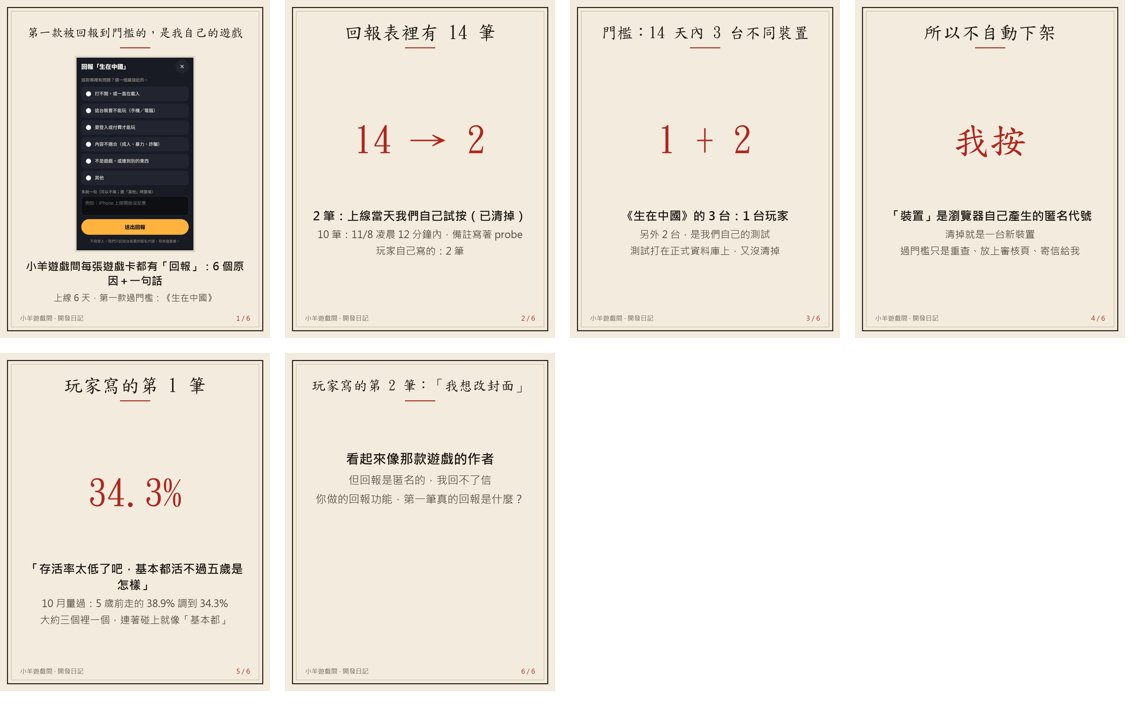
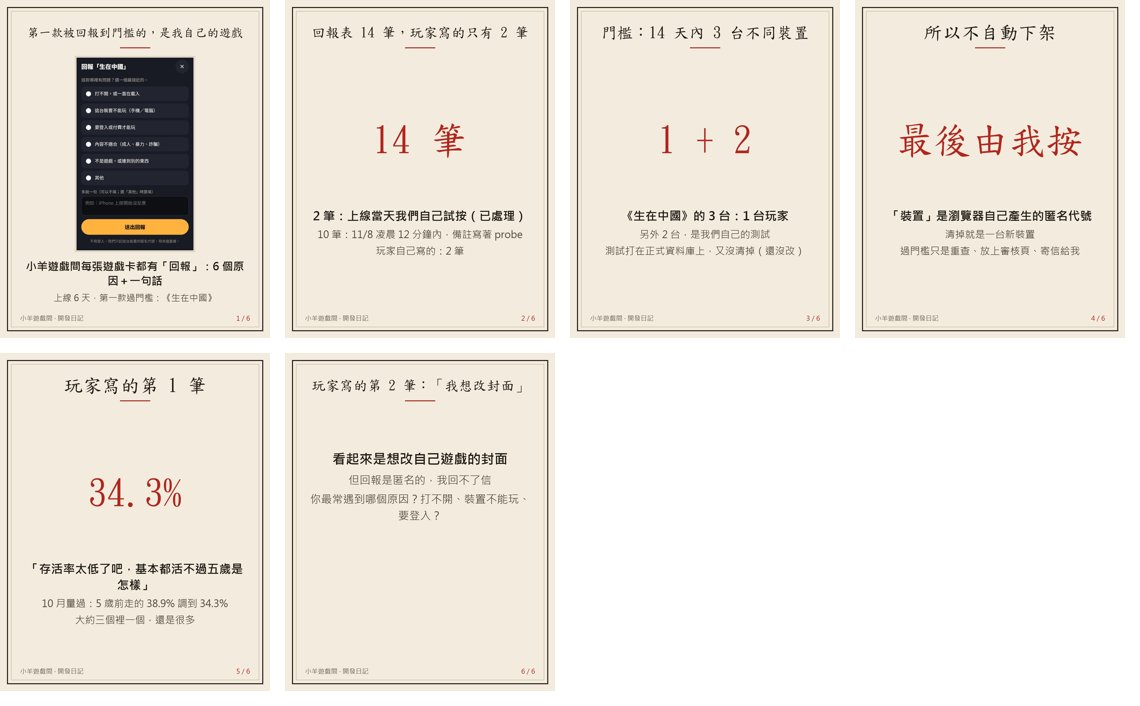
vault backup: 2026-11-08 05:40:37

diff --git a/Projects/auto promotion/posts/56.md b/Projects/auto promotion/posts/56.md
@@ -3,41 +3,41 @@ id: 56
 type: devnote
 game: hub
 topic: "小羊遊戲間：回報按鈕（D61，11/2 上線）6 天——回報表 14 筆：2 筆上線當天 orchestrator 試按（已清）、10 筆 11/8 台灣 00:22–00:34 測試探針（備註 probe，含一筆 <img onerror> 擋 HTML 測試）、玩家寫的 2 筆；門檻 14 天 3 台不同裝置，第一款過門檻的是生在中國：1 台玩家＋2 台探針（測試打正式 D1 沒清）；裝置是瀏覽器匿名代號、清掉就是新裝置 → 不自動下架、owner 按；玩家 1「存活率太低了吧 基本都活不過五歲」← #7 的 38.9%→34.3%；玩家 2 台灣三寶駕駛模擬器「我想改封面」像作者、匿名回不了；同期 364 個匿名裝置、374 次開玩"
-status: 草稿
+status: 待發
 created: 2026-11-08 21:30
-score:
+score: 8.1
 ---
 # 第一款被回報到門檻的遊戲，是我自己的
 
 ## Threads
 ### 1
-回報按鈕上線 6 天，
-第一款被回報到門檻的遊戲，是我自己做的《生在中國》。
+第一款被回報到門檻的遊戲，
+是我自己做的《生在中國》。（回報按鈕上線 6 天）
 
-我第一個反應是：糟了，壞了嗎？
-然後我去看了那 3 台裝置是誰。（開發日記）
+所以我去看了那 3 台裝置是誰。（開發日記）
 ![[56/01.jpg]]
 ### 2
 先說這個按鈕。
 
-小羊遊戲間收了一千多款網頁小遊戲，有些會掛掉、要登入、或手機不能玩。
+小羊遊戲間收了 1,513 款網頁小遊戲，有些會掛掉、要登入、或手機不能玩。
 11/2 我跟 AI 團隊說：我想做一個回報系統，每個遊戲頁 like、share 之外再多一個 report，收集多了可以下架或讓它少出現。
 
 做出來是：6 個原因選一個，可以多說一句，不用登入。
 不存 IP，只記一個匿名的裝置代號。
 同一台、同一款，24 小時只算一次。
 ### 3
-規則是：14 天內，有 3 台不同裝置回報同一款，
-排程就重查那款、放上審核頁、寄信給我。
+規則是：14 天內有 3 台不同裝置回報同一款，
+每天的排程會重查那款、放上審核頁，提醒我去看。
 
 不自動下架。
 因為「裝置」只是瀏覽器自己產生的代號，
 清掉瀏覽器資料，就是一台新裝置。
 最後按「下架／少出現／沒問題」的，是我。
+![[56/04.jpg]]
 ### 4
 6 天，回報表裡有 14 筆。
 
-・2 筆：上線當天我們自己試按，當場清掉
+・2 筆：上線當天我們自己試按，當場標成已處理
 ・10 筆：11/8 凌晨 12 分鐘內打進來，備註寫著 probe，還有一筆在備註裡塞 HTML，測會不會被擋
 ・玩家自己寫的：2 筆
 
@@ -50,67 +50,78 @@ score:
 測試打在正式資料庫上，又沒清掉。
 門檻是我定的，湊滿門檻的也是我們自己 orz
 
-要改的很簡單：測完就清，或測試別打正式那份。
-這是我這週學到的：統計會被自己的測試騙。
+要改的很簡單（還沒改，那幾筆現在還在表裡）：測完就清，或測試別打正式那份。
+這週學到的：統計會被自己的測試騙。
 ![[56/03.jpg]]
 ### 6
-那 2 筆玩家寫的，我都很珍惜。
-
-第一筆，回報《生在中國》：
+玩家寫的第 1 筆，回報《生在中國》，原文：
 「存活率太低了吧，基本都活不過五歲是怎樣」
-10 月我量過：5 歲前就走的，從 38.9% 調到 34.3%。
-大約三個裡一個，不是「基本都」，但連著碰上幾世，真的會覺得是。
 
-第二筆，回報《台灣三寶駕駛模擬器》：「我想改封面」。
-看起來像作者本人。但回報是匿名的，我回不了信 :p
+10 月我量過：5 歲前就走的，從 38.9% 調到 34.3%。
+大約三個裡一個。比以前少了一點，但三個裡一個還是很多，
+連著碰上幾世，會覺得「基本都」也不奇怪。
 ![[56/05.jpg]]
 ### 7
-你做過回報功能嗎？
-第一筆「真的」回報是什麼？
+玩家寫的第 2 筆，回報《台灣三寶駕駛模擬器》：
+「我想改封面」
 
-有錯請指正，追蹤我，下一篇寫這套清測試資料的規則。
+看起來是想改自己遊戲的封面。
+但回報是匿名的，我回不了信 :p
+
+你按過「回報」嗎？
+你按的那一下，在我這裡算一台。3 台不同裝置，我就會去看。
+最常是哪個原因：打不開、裝置不能玩、還是要登入？
+追蹤我，等玩家（不是我）把門檻湊滿那天，我再回來報。
+![[56/06.jpg]]
 ### 連結
-一千多款點了就玩的網頁小遊戲，壞了就按回報 👉 https://games.csiesheep.com/
+想試試「三個裡一個活不過五歲」的人生 👉 https://games.csiesheep.com/china_life/
+1,513 款點了就玩的網頁小遊戲，壞了就按回報 👉 https://games.csiesheep.com/
 
 ## Instagram
-小羊遊戲間每張遊戲卡都有「回報」：6 個原因選一個，可以多說一句，不用登入。上線 6 天，第一款過門檻（14 天內 3 台不同裝置）的是我自己的《生在中國》。
-去看那 3 台：1 台玩家，2 台是我們自己的測試，打在正式資料庫又沒清。回報表 14 筆，玩家寫的只有 2 筆。
+小羊遊戲間每款遊戲都有「回報」：6 個原因選一個，可以多說一句，不用登入。上線 6 天，第一款過門檻（14 天內 3 台不同裝置）的是我自己的《生在中國》。
+去看那 3 台：1 台玩家，2 台是我們自己的測試，打在正式資料庫又沒清（還沒改）。回報表 14 筆，玩家寫的只有 2 筆。
 所以不自動下架：裝置只是瀏覽器的匿名代號，清掉就是新的，最後按的是我。
-你做的回報功能，第一筆真的回報是什麼？連結在主頁
+你按過「回報」嗎？你按的那一下在我這裡算一台。最常是哪個原因？
+連結在主頁
 #小羊遊戲間 #開發日記 #網頁遊戲 #獨立遊戲
 卡片：![[56/01.jpg]] ![[56/02.jpg]] ![[56/03.jpg]] ![[56/04.jpg]] ![[56/05.jpg]] ![[56/06.jpg]]
 
 ## Facebook
 第一款被回報到門檻的遊戲，是我自己的 🚩
 
-小羊遊戲間收了一千多款網頁小遊戲，有些會掛掉、要登入、或手機不能玩。11/2 我跟 AI 團隊說：我想做一個回報系統，每個遊戲頁 like、share 之外再多一個 report，收集多了可以下架或讓它少出現。
+小羊遊戲間收了 1,513 款網頁小遊戲，有些會掛掉、要登入、或手機不能玩。11/2 我跟 AI 團隊說：我想做一個回報系統，每個遊戲頁 like、share 之外再多一個 report，收集多了可以下架或讓它少出現。
 
 📋 做出來的樣子
 ・6 個原因選一個：打不開、這台裝置不能玩、要登入或付費、內容不適合、不是遊戲、其他
 ・可以多說一句，不用登入
 ・不存 IP，只記一個匿名的裝置代號；同一台、同一款 24 小時只算一次
-・14 天內 3 台不同裝置回報同一款 → 排程重查、放上審核頁、寄信給我
+・規則：14 天內 3 台不同裝置回報同一款 → 每天的排程重查那款、放上審核頁，提醒我去看
 ・不自動下架：「裝置」只是瀏覽器自己產生的代號，清掉就是一台新裝置，最後按下架／少出現／沒問題的是我
 
 📊 6 天後
 回報表 14 筆：
-・2 筆是上線當天我們自己試按，當場清掉
+・2 筆是上線當天我們自己試按，當場標成已處理
 ・10 筆是 11/8 凌晨 12 分鐘內打進來的，備註寫著 probe，還有一筆在備註裡塞 HTML，測會不會被擋
 ・玩家自己寫的：2 筆
 同一段時間大約 364 台匿名裝置來過，開了 374 次遊戲。
 
 第一款過門檻的，是我自己的《生在中國》。去看那 3 台：1 台玩家，2 台是我們自己的測試。測試打在正式資料庫上，又沒清掉。門檻是我定的，湊滿門檻的也是我們 orz
-要改的很簡單：測完就清，或測試別打正式那份。統計會被自己的測試騙。
+要改的很簡單（還沒改，那幾筆現在還在表裡）：測完就清，或測試別打正式那份。統計會被自己的測試騙。
 
-💬 那 2 筆玩家寫的
-第一筆回報《生在中國》：「存活率太低了吧，基本都活不過五歲是怎樣」。10 月我量過，5 歲前就走的從 38.9% 調到 34.3%，大約三個裡一個；不是「基本都」，但連著碰上幾世，真的會覺得是。
-第二筆回報《台灣三寶駕駛模擬器》：「我想改封面」。看起來像作者本人，但回報是匿名的，我回不了信 :p
+💬 那 2 筆玩家寫的，原文
+第一筆回報《生在中國》：「存活率太低了吧，基本都活不過五歲是怎樣」。10 月我量過，5 歲前就走的從 38.9% 調到 34.3%，大約三個裡一個。比以前少了一點，但三個裡一個還是很多，連著碰上幾世，會覺得「基本都」也不奇怪。
+第二筆回報《台灣三寶駕駛模擬器》：「我想改封面」。看起來是想改自己遊戲的封面，但回報是匿名的，我回不了信 :p
 
-你做過回報功能嗎？第一筆「真的」回報是什麼？有錯請指正。
-一千多款點了就玩的網頁小遊戲，壞了就按回報 👉 https://games.csiesheep.com/
+你按過「回報」嗎？你按的那一下，在我這裡算一台；3 台不同裝置，我就會去看。最常是哪個原因：打不開、裝置不能玩、還是要登入？有錯請指正。
+想試試「三個裡一個活不過五歲」的人生 👉 https://games.csiesheep.com/china_life/
+其他點了就玩的網頁小遊戲，壞了就按回報 👉 https://games.csiesheep.com/
 相簿：同 Instagram 卡片
 
 ## Sources
+- hub data/games.csv：status listed 1,513 款（2026-11-08 查）
+- hub git 11-01 16:34 PT「review-recs skill: daily job also handles player reports (D61) — threshold games re-probed into the review page's reports tab」；D61「每天的排程統計 14 天內 ≥ 3 台不同裝置的款，重查後放上審核頁「回報」區＋email」
+- 已清＝cleared_at 有值；兩列 cleared_at 與 created_at 差 1 秒內（08:29:53→54、08:30:03→03），所以寫「當場」（列還在表裡，不算進統計）
+- https://games.csiesheep.com/china_life/ — 生在中國
 - C:/Users/sheep/code/hub/docs/design.md D61 — owner 2026-11-02 原話「我想作一個回報系統，每個遊戲頁，like / share / 再多一個 report…收集多了，我們可以下架或是讓他減少出現」；6 原因、不用登入、不存 IP、uid 雜湊、同裝置同款 24 小時一次、一台 24 小時 10 筆、14 天 ≥ 3 台、不自動下架
 - hub git log 11-01 16:13 PT（台灣 11/2 08:13）「Land #67 #68: player reports (D61)」
 - hub src/ui/strings.js reportReasons（6 個原因的字）、migrations/0002_reports.sql、src/server/reports.js WINDOW_DAYS 14、THRESHOLD 3
@@ -118,10 +129,15 @@ score:
 - GET /api/admin/reports（14 天、門檻 3）：china_life devices 3（2 台是 probe）
 - D1 hub-recs events：11/2–11/8 不同 uid_hash 364、play 374（internal=1 不送）
 - data/games.csv 8791 = 台灣三寶駕駛模擬器（pinruichen）
+- 玩家 1 原文（D1 reports china_life 11/4 15:25 note 逐字）：「存活率太低了吧⏎基本都活不過五歲是怎樣」（換行在貼文裡改成逗號）
+- 回報鈕在每張遊戲卡右側按鈕列（收藏、分享、回報；src/ui/report.js），站內玩時在膠囊「更多」
 - posts/7.md — 5 歲前 38.9% → 34.3%（2 萬世）
 
 ## 打磨紀錄
 | 回合 | 1 | 2 | 3 | 4 | 5 | 6 | 7 | 8 | 9 | 10 | 平均 | 主要修改 |
 |---|---|---|---|---|---|---|---|---|---|---|---|---|
+| 1 | 8 | 9 | 8 | 7 | 8 | 6 | 6 | 7 | 5 | 8 | 7.2 | 刪編造的感受；1,513 補來源；排程改規則語氣；補「還沒改」；拆第 6 則；換結尾問題；加生在中國連結；卡 2、4 改字 |
+| 2 | 8 | 9 | 8 | 7 | 8 | 8 | 8 | 8 | 7 | 8 | 7.9 | 玩家原文對 D1 逐字；結尾加「你按的那一下算一台」 |
+| 3 | 8 | 9 | 8 | 8 | 8 | 9 | 8 | 8 | 7 | 8 | 8.1 | 拿掉「其他」；「當場」補 cleared_at 來源 → 待發 |
 
 ## 發文紀錄

diff --git a/Projects/auto promotion/2026-11-08.md b/Projects/auto promotion/2026-11-08.md
@@ -255,3 +255,6 @@
 | 21:32 | promo-post-devnote-2120 | 發文 | Instagram #47 輪播 7 張 | https://www.instagram.com/p/Dfe3w3UmxUa/ |
 | 21:35 | promo-post-devnote-2120 | 發文 | Facebook 粉專 #47 相簿 7 張（已發 21:36） | https://www.facebook.com/profile.php?id=61595336267744 |
 | 21:35 | promo-post-devnote-2120 | 完成 | #47 三平台都發了；帳號：IG/Threads 一開始與結束都是 csiesheep.games（沒切換），FB 開始 傅道揚 → 粉專 → 切回 傅道揚 |  |
+| 21:35 | promo-producer | 進度 | 開發日記 #56 草稿＋6 張卡：小羊遊戲間回報按鈕 6 天（14 筆裡玩家 2 筆，生在中國過門檻是被自己的測試湊滿）；送評審 |  |
+| 21:37 | ghost-reply-post-2253 | 發文 | Threads 一般回覆：rof___eggy 招手的動漫 | https://www.threads.com/@gui.chang.shi/post/Dfe4XI9G2hv |
+| 21:38 | promo-producer | 完成 | 開發日記 #56 待發（評審 3 輪 7.2→7.9→8.1）：「第一款被回報到門檻的遊戲，是我自己的」，posts/56.md＋6 張卡；存貨 卡 2、生在中國 Reel 2、鬼唱詩 2（待審 1）、貼文 熱門 4／日記 4。另：hub 回報表有 10 筆 11/8 00:22–00:34 的測試探針沒清，生在中國因此過了 3 台門檻 |  |
